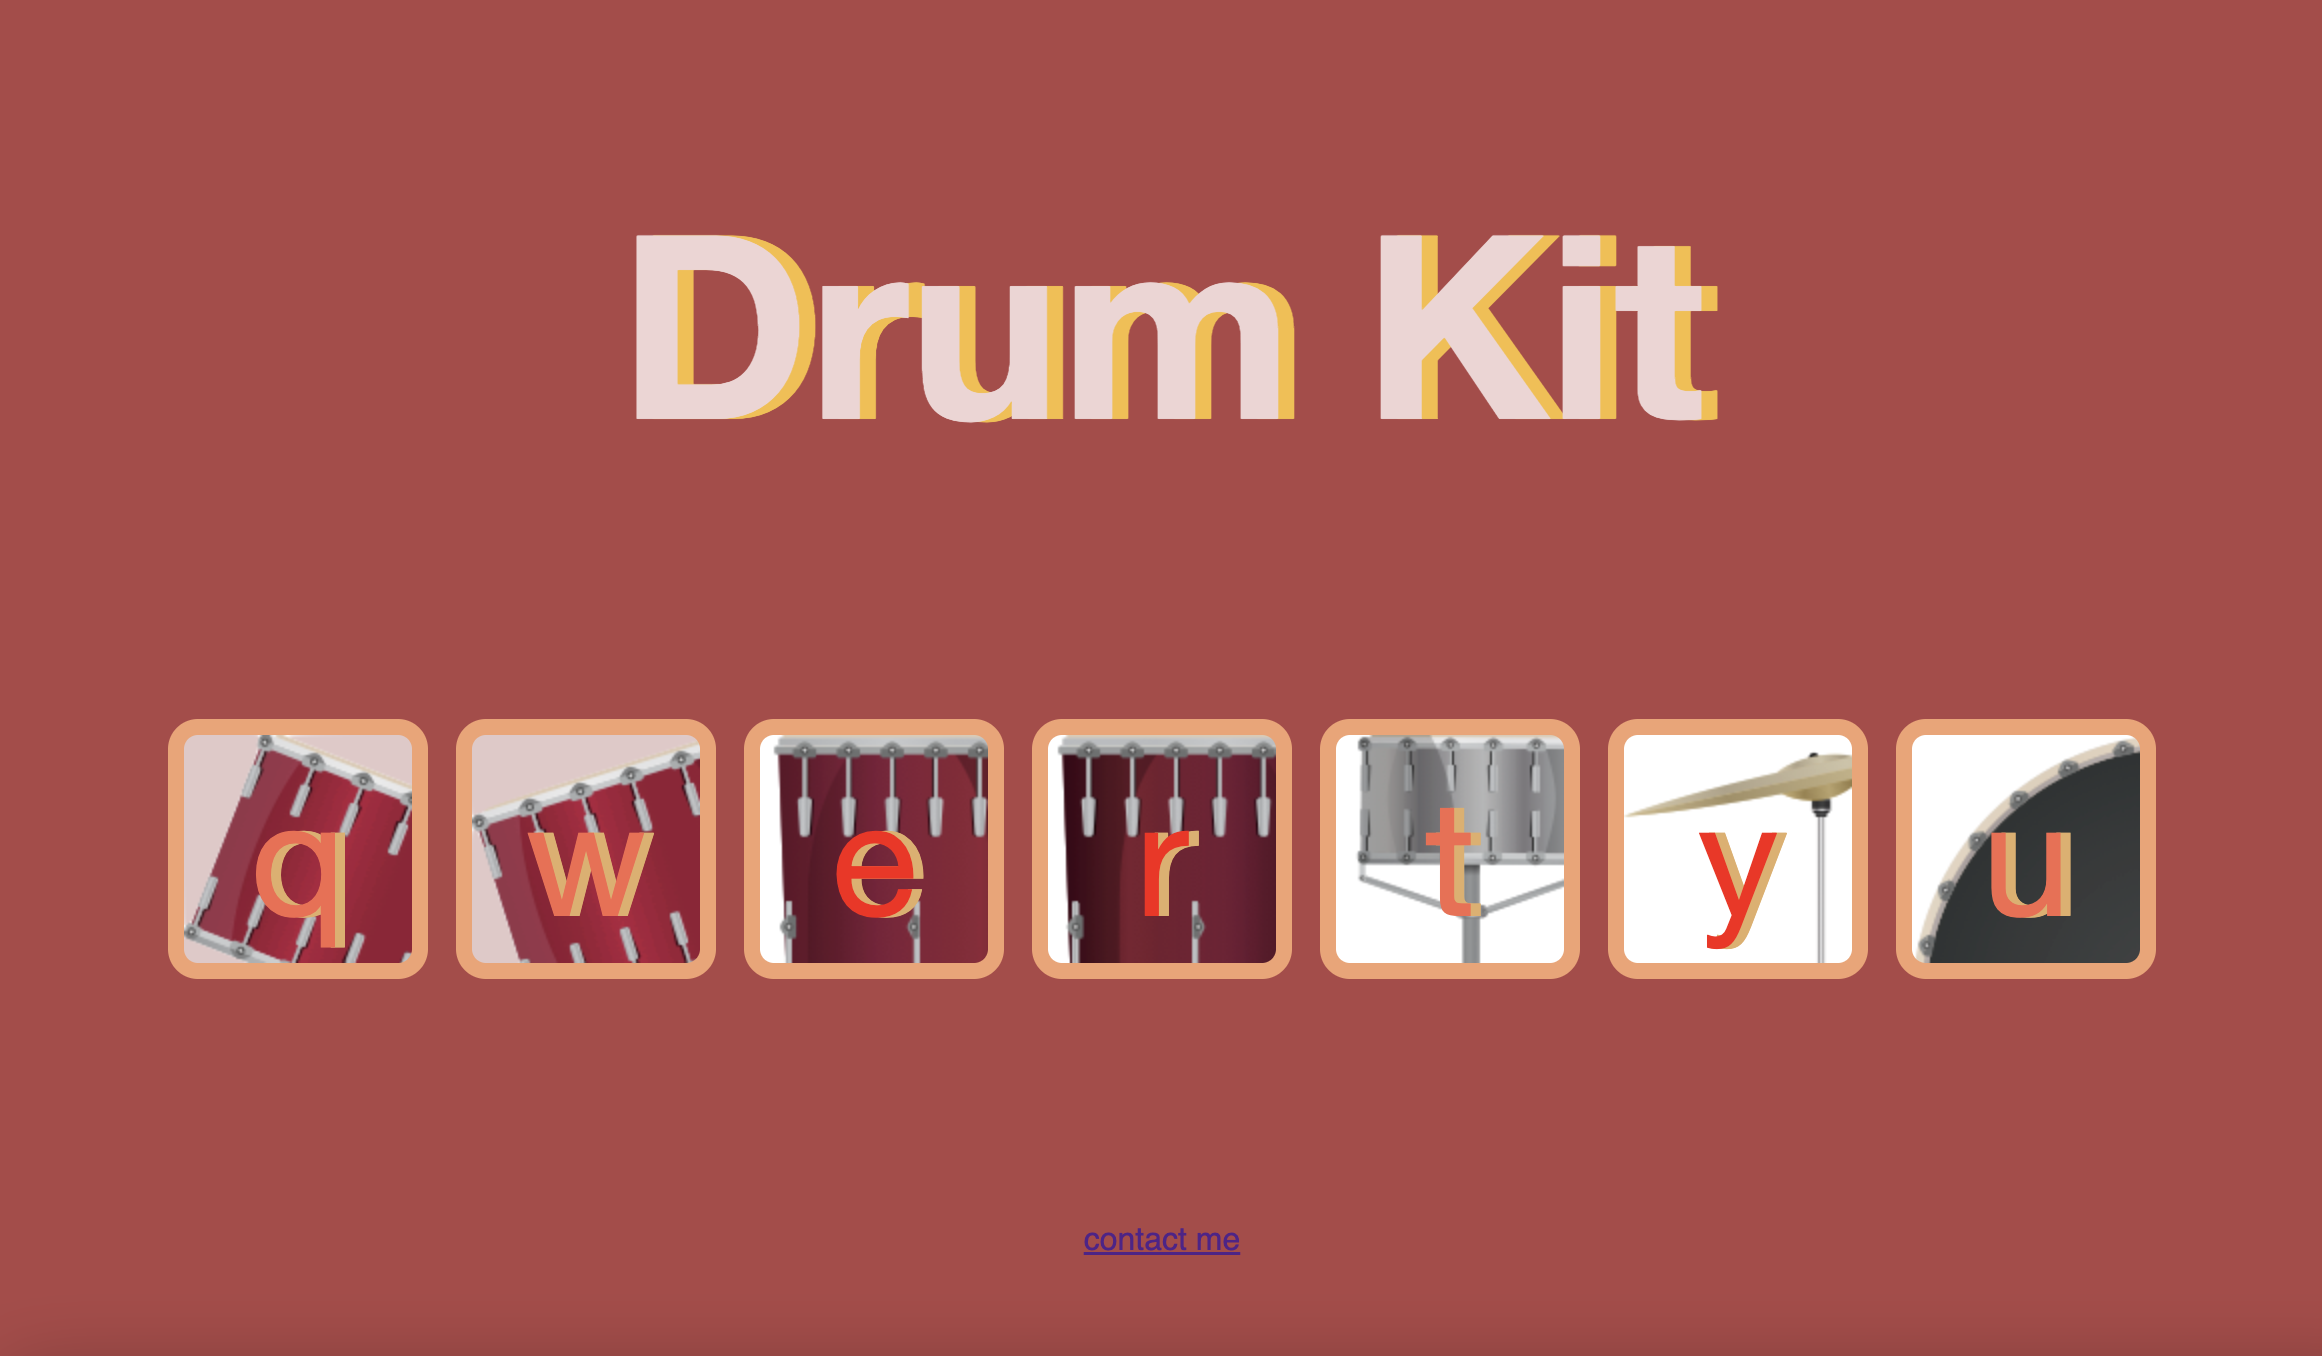
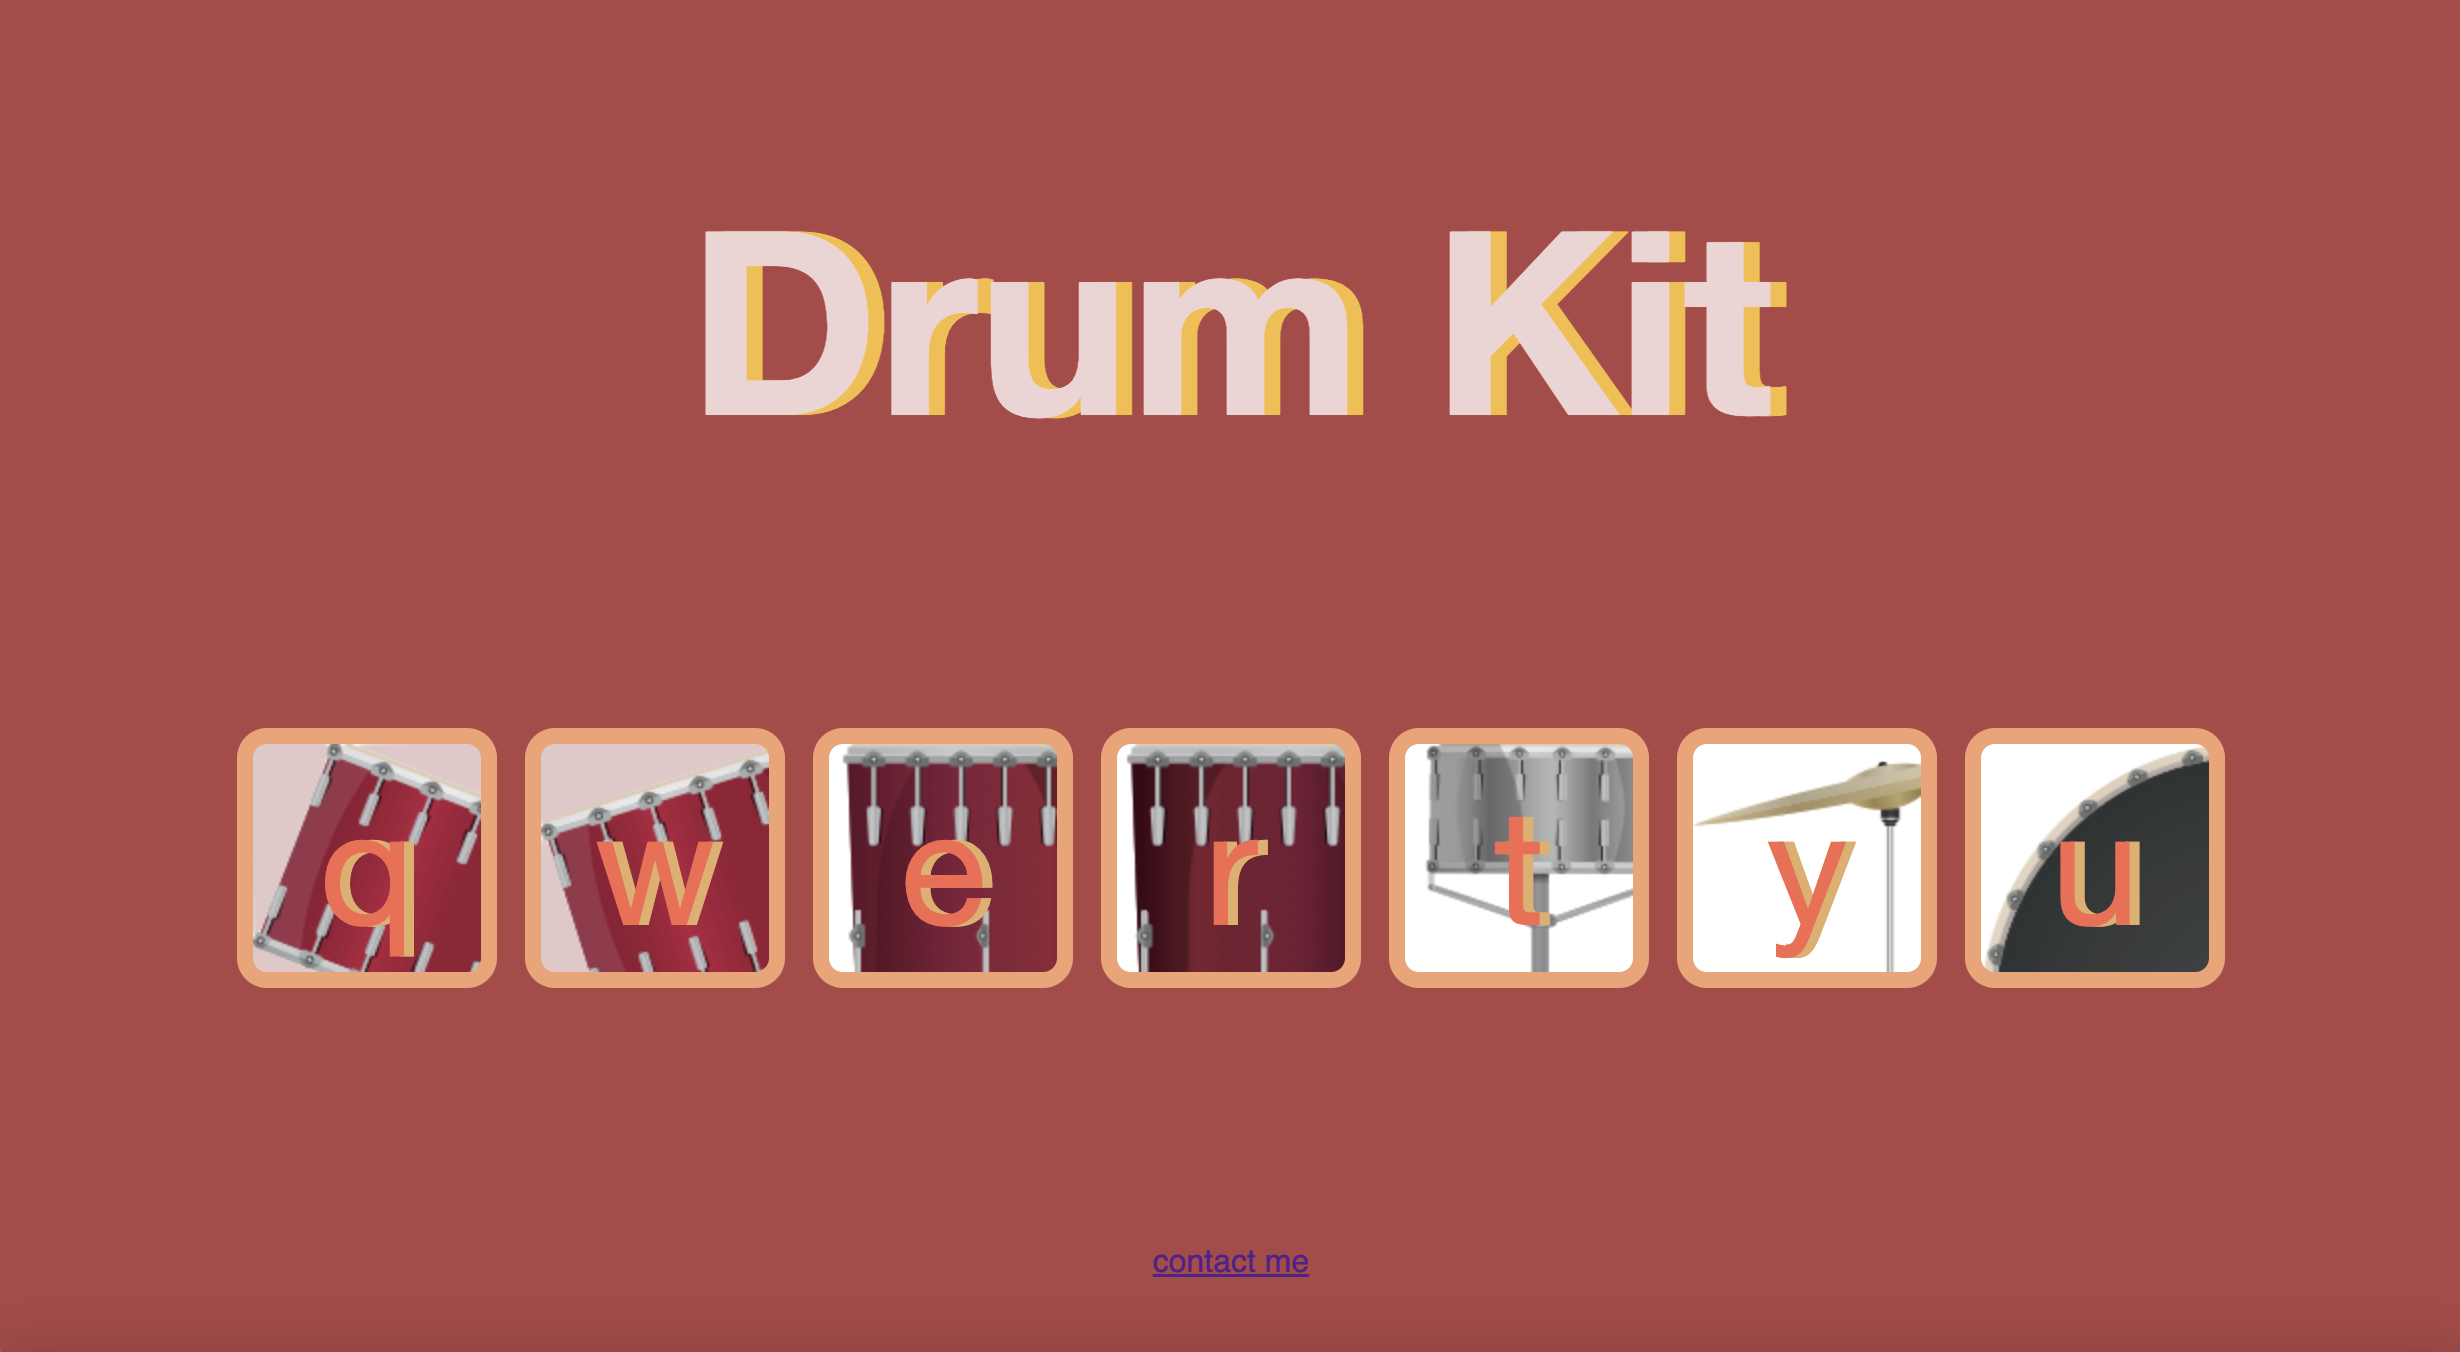
Updated
Updated

diff --git a/13. Advanced Javascript and DOM Manipulation/drum kit/script.js b/13. Advanced Javascript and DOM Manipulation/drum kit/script.js
@@ -1,29 +1,30 @@
 var numOfButtons = document.querySelectorAll(".drum").length;
-var flash = false;
+// var flash = false;
 
 for (let index = 0; index < numOfButtons; index++) {
     document.querySelectorAll(".drum")[index].addEventListener("click", function(event) {
-        //alert("you click on "+document.querySelectorAll(".drum")[index].className);
-        if (flash) {
+        /*if (flash) {
             this.style.color = "rgba(252, 24, 13)";
         } else {
             this.style.color = "";
-        }
+        }*/
         let key = this.innerHTML;
         makeSoundByButton(key);
-        flash = !flash;
+        buttonAnimation(key);
+        // flash = !flash;
     });
 }
 
 document.addEventListener("keypress", function(event) {
     let button = document.getElementsByClassName(event.key);
-    if (flash) {
+    /*if (flash) {
         button[0].style.color = "rgba(252, 24, 13)";
     } else {
         button[0].style.color = "";
-    }
+    }*/
     makeSoundByButton(event.key);
-    flash = !flash;
+    buttonAnimation(event.key);
+    // flash = !flash;
 });
 
 function makeSoundByButton(key) {
@@ -50,8 +51,17 @@ function makeSoundByButton(key) {
             path = "sounds/kick-bass.mp3";
             break;
         default:
+            path = "";
             break;
     }
     var audio = new Audio(path);
     audio.play();
+}
+
+function buttonAnimation(key) {
+    let button = document.querySelector("."+key);
+    button.classList.add("pressed");
+    setTimeout(() => {
+        button.classList.remove("pressed");
+    }, 100);
 }

diff --git a/13. Advanced Javascript and DOM Manipulation/drum kit/styles.css b/13. Advanced Javascript and DOM Manipulation/drum kit/styles.css
@@ -57,3 +57,8 @@ footer {
     margin: 5px;
     background-color: rgb(226, 200, 200);
 }
+
+.pressed {
+    box-shadow: 0 3px 4px 0 #6a5353;
+    opacity: 0.5;
+}
